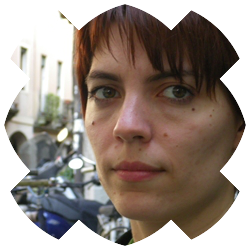
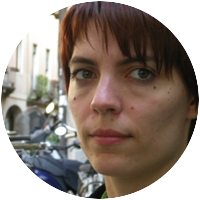
updating people

Changed region(s): [[0.0, 0.0, 1.0, 1.0]]

diff --git a/app/models/talk.rb b/app/models/talk.rb
@@ -1,7 +1,7 @@
 class Talk < Struct.new(:id, :day, :position)
 
   def self.all_talks
-    %i(dayone daytwo daythree).collect do |day|
+    %i(dayone daytwo daythree dayfour dayfive daysix).collect do |day|
       I18n.translate(:agenda, scope: [:schedule, day]).keys.collect do |key|
         new(key, day)
       end

diff --git a/app/services/pictures/make_circles.rb b/app/services/pictures/make_circles.rb
@@ -1,4 +1,4 @@
-module Picture
+module Pictures
   class MakeCircles < Struct.new(:original_dir, :dest_dir, :pattern)
     def self.for_all
       source_path = Rails.root.join('public/assets/speakers')
